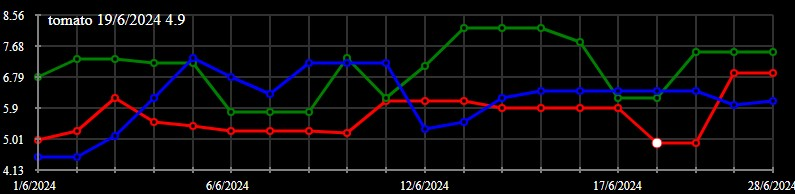
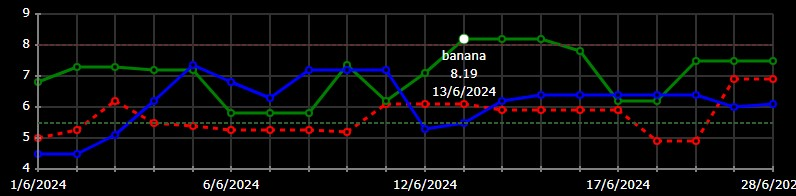
Update README.md

Changed region(s): [[0.0, 0.1237, 1.0, 0.9897], [0.0, 0.0309, 0.966, 0.1546]]

diff --git a/src/Example.tsx b/src/Example.tsx
@@ -49,7 +49,7 @@ const series1: Series = {
     { x: 20240621, y: 4.9 },
     { x: 20240628, y: 6.9 },
   ],
-  lineStyle: { stroke: "red", strokeWidth: "3px" },
+  lineStyle: { stroke: "red", strokeWidth: "3px", strokeDasharray: "5 5", },
   label: "tomato",
   id: "tomato",
 };

diff --git a/README.md b/README.md
@@ -9,13 +9,16 @@ Example:
 ![basic minesweeper](https://github.com/tummybunny/ts-react-chart/blob/master/public/example.jpg)
 
 ```
-import LineChart, { Axis, Series } from "./LineChart";
+import LineChart, { Axis, DataPoint, Series } from "./LineChart";
 
-function numberToDate(num: number) {
-  const yr = (num / 10000) | 0;
-  const month = ((num % 10000) / 100) | 0;
-  const day = num % 100;
-  return new Date(yr, month - 1, day);
+function round2dp(n: number) {
+  return ((n * 100) | 0) / 100;
+}
+
+function dateToNumber(date: Date) {
+  return (
+    date.getDate() + (date.getMonth() + 1) * 100 + date.getFullYear() * 10000
+  );
 }
 
 function formatDate(d: Date) {
@@ -36,8 +39,9 @@ const series1: Series = {
     { x: 20240621, y: 4.9 },
     { x: 20240628, y: 6.9 },
   ],
-  lineStyle: { stroke: "red", strokeWidth: "3px" },
+  lineStyle: { stroke: "red", strokeWidth: "3px", strokeDasharray: "5 5", },
   label: "tomato",
+  id: "tomato",
 };
 
 const series2: Series = {
@@ -56,6 +60,7 @@ const series2: Series = {
   ],
   lineStyle: { stroke: "green", strokeWidth: "3px" },
   label: "banana",
+  id: "banana",
 };
 
 const series3: Series = {
@@ -76,6 +81,7 @@ const series3: Series = {
   ],
   lineStyle: { stroke: "blue", strokeWidth: "3px" },
   label: "apple",
+  id: "apple",
 };
 
 const allSeries = [series1, series2, series3];
@@ -84,16 +90,13 @@ const axisX: Axis = {
   maxDiscretePoints: 20,
   style: { stroke: "#808080", strokeWidth: "2px" },
   markings: 5,
-  markingPosX: -25,
-  markingPosY: 20,
-  markingTextStyle: {
-    color: "white",
-    fontSize: "12px"
-  },
+  markingPosXPosition: "middle",
+  markingPosYPosition: "middle",
+  markingPosX: 0,
+  markingPosY: 17,
+  markingTextStyle: { fill: "white", font: "12px verdana" },
   grid: true,
   gridStyle: { stroke: "#303030", strokeWidth: "2px" },
-  
-  // format date in DD/MM/YYYYY:
   formatValue: (n: number) => formatDate(numberToDate(n)),
 };
 
@@ -101,17 +104,24 @@ const axisY: Axis = {
   maxDiscretePoints: 5,
   style: { stroke: "#808080", strokeWidth: "2px" },
   markings: 5,
-  markingPosX: -35,
-  markingPosY: 5,
-  markingTextStyle: {
-    color: "white",
-    fontSize: "12px"
-  },
+  markingPosXPosition: "end",
+  markingPosYPosition: "middle",
+  markingPosX: -8,
+  markingPosY: 0,
+  markingTextStyle: { fill: "white", font: "12px verdana" },
   grid: true,
   gridStyle: { stroke: "#303030", strokeWidth: "2px" },
-
-  // format number with 2 decimal points:  
-  formatValue: (n: number) => (((n * 100) | 0) / 100).toString(),
+  discreteLines: [
+    {
+      value: 8,
+      lineStyle: { stroke: "#603030", strokeWidth: "2px", strokeDasharray: "4 2", },
+    },
+    {
+      value: 5.5,
+      lineStyle: { stroke: "#306030", strokeWidth: "2px", strokeDasharray: "4 2", },
+    },
+  ],
+  formatValue: (n: number) => round2dp(n).toString(),
 };
 
 const Example = () => {
@@ -122,12 +132,18 @@ const Example = () => {
       marginLeft={40}
       marginRight={25}
       height={200}
-      maxValueExtraPct={10}
-      minValueExtraPct={10}
+      maxValue={9}
+      minValue={4}
+      maxValueExtraPct={0}
+      minValueExtraPct={0}
       axisX={axisX}
       axisY={axisY}
       allSeries={allSeries}
-      onDataXYSelected={(seriesId, price) => console.log({seriesId, price})}
+      hintTextHeight={18}
+      hintTextStyle={{ fill: "white", font: "12px verdana" }}
+      onDataPointSelected={(seriesId, price) =>
+        console.log({ seriesId, price })
+      }
     ></LineChart>
   );
 };
